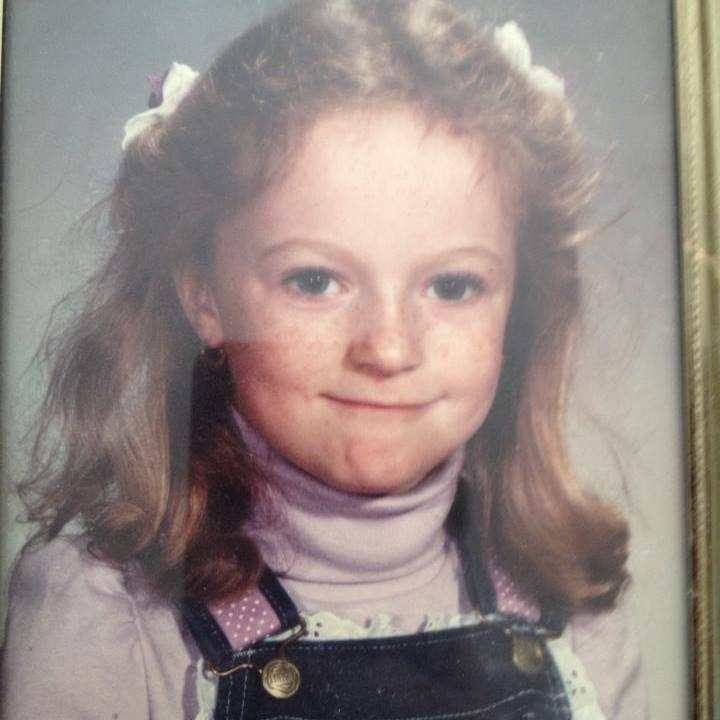
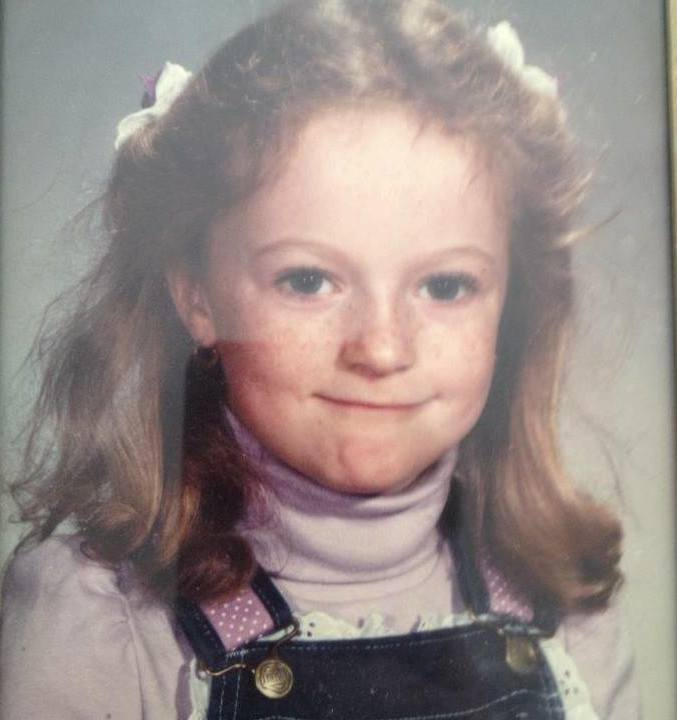
Removed placeholder photos and cropped

diff --git a/app/controllers/baby_photos_controller.rb b/app/controllers/baby_photos_controller.rb
@@ -13,9 +13,6 @@ class BabyPhotosController < ApplicationController
       {answer: 'Brenda Hartman', url: 'photos/Brenda Hartman.jpg'},
       {answer: 'Lina Keo', url: 'photos/Lina Keo.jpg'},
       {answer: 'Martha Pearson', url: 'photos/Martha Pearson.jpg'},
-      {answer: 'Kathleen Votolato', url: 'photos/Kathleen Votolato.jpg'},
-      {answer: 'Kathleen Votolato', url: 'photos/Kathleen Votolato Recent.jpg'},
-      {answer: 'Kathleen Votolato', url: 'photos/Kathleen Votolato Recent.jpg'},
-      {answer: 'Kathleen Votolato', url: 'photos/Kathleen Votolato Recent.jpg'}]
+      {answer: 'Kathleen Votolato', url: 'photos/Kathleen Votolato.jpg'}]
   end
 end
